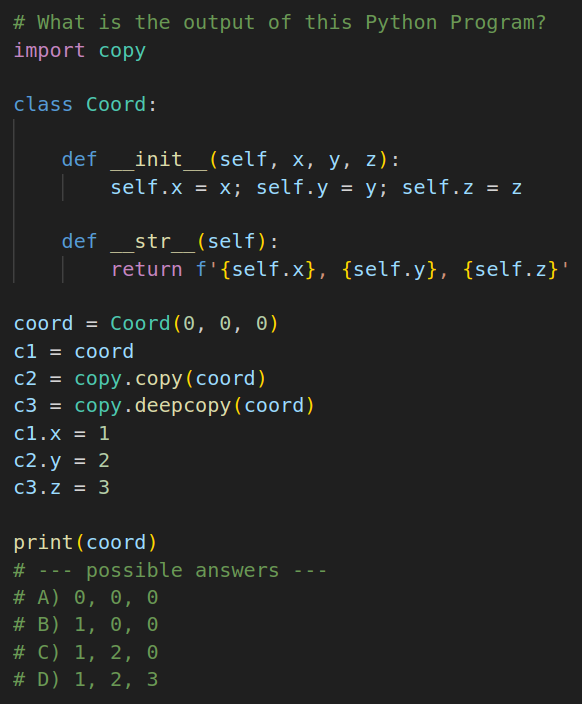
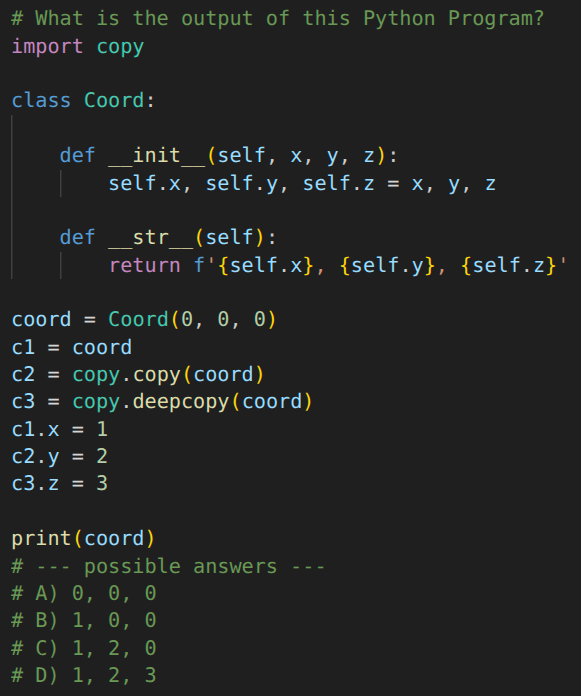
update

diff --git a/exercises/exercise11.py b/exercises/exercise11.py
@@ -5,7 +5,7 @@ import copy
 class Coord:
 
     def __init__(self, x, y, z):
-        self.x = x; self.y = y; self.z = z
+        self.x, self.y, self.z = x, y, z
 
     def __str__(self):
         return f'{self.x}, {self.y}, {self.z}'
